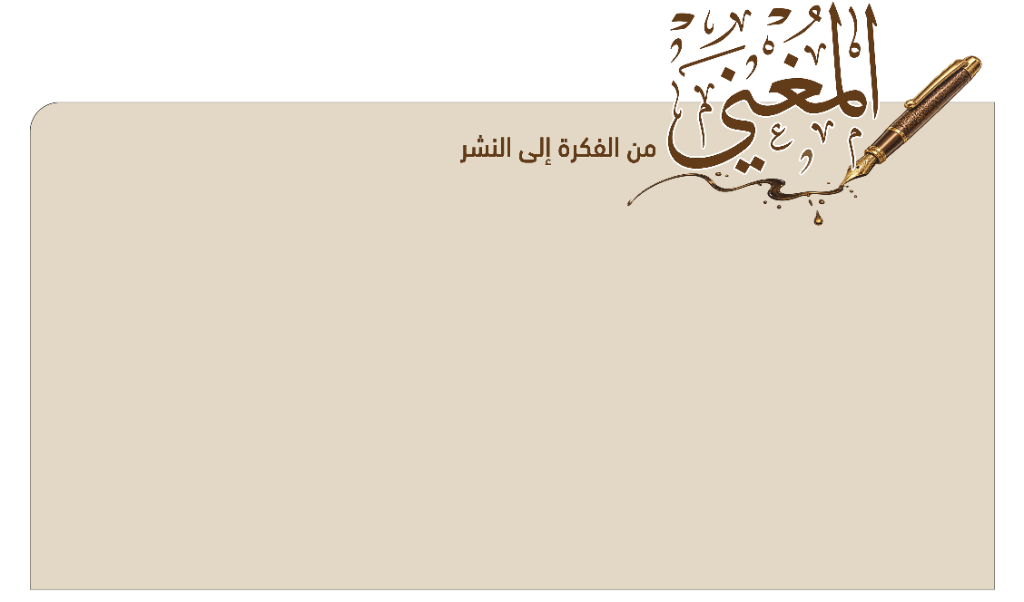
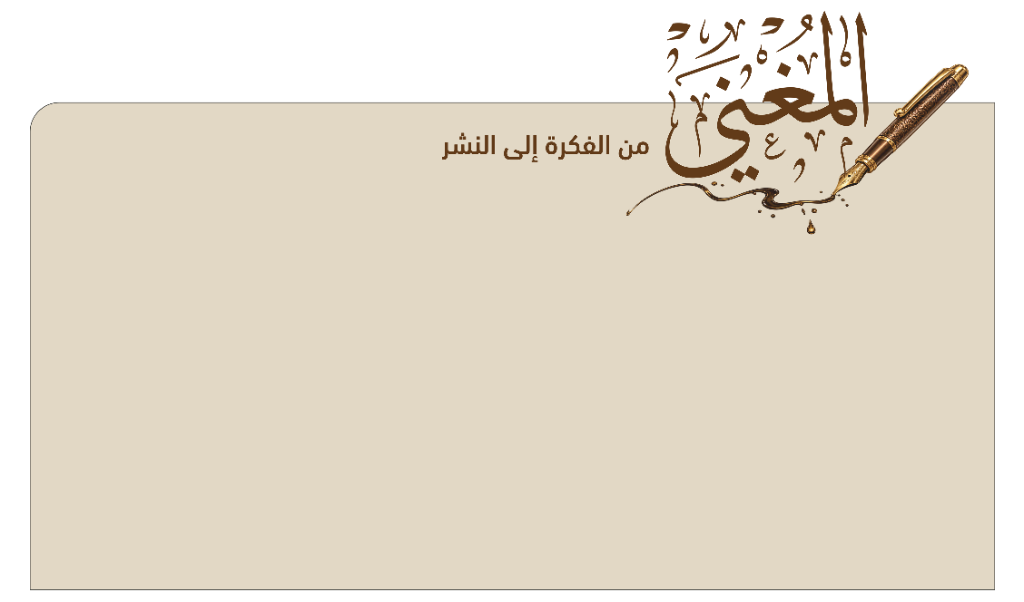
1.10.600: استبدال لوحة التنصيب باللوحة الجديدة
الخط والقلم وعبارة «من الفكرة إلى النشر» صارت لوحة الإعداد في ماك وويندوز بنفس المقاس.

Changed region(s): [[0.0625, 0.0, 0.9688, 0.3887], [0.5938, 0.3289, 0.625, 0.3588]]

diff --git a/web_ui/templates/index.html b/web_ui/templates/index.html
@@ -7,7 +7,7 @@
     <title>المغني</title>
     <meta name="description"
         content="منظومة المغني - من الفكرة إلي النشر، مع محادثة ذكية ووكلاء مساعدين">
-    <link rel="stylesheet" href="/static/css/claude_theme.css?v=1.10.599">
+    <link rel="stylesheet" href="/static/css/claude_theme.css?v=1.10.600">
     <link rel="preconnect" href="https://fonts.googleapis.com">
     <link rel="preconnect" href="https://fonts.gstatic.com" crossorigin>
     <link
@@ -25,9 +25,9 @@
         <div class="header-top">
             <div class="brand-section">
                 <div class="brand-title">
-                    <img class="brand-mark" src="/static/brand-mark.png?v=1.10.599" alt="المغني">
+                    <img class="brand-mark" src="/static/brand-mark.png?v=1.10.600" alt="المغني">
                 </div>
-                <span class="brand-subtitle-1" id="appVersionLabel">النسخة: 1.10.599</span>
+                <span class="brand-subtitle-1" id="appVersionLabel">النسخة: 1.10.600</span>
             </div>
 
             <div class="header-actions">
@@ -6044,7 +6044,7 @@
     <script src="/static/js/markmap-lib.min.js"></script>
     <script src="/static/js/g6.min.js"></script>
     <script src="/static/js/g2.min.js"></script>
-    <script src="/static/js/app.js?v=1.10.599"></script>
+    <script src="/static/js/app.js?v=1.10.600"></script>
     <script src="/static/js/search.js?v=1.10.493"></script>
     <script src="/static/js/reader.js?v=1.10.493"></script>
     <script src="/static/js/force3d.js?v=1.10.493"></script>
@@ -6052,16 +6052,16 @@
     <script src="/static/js/chat.js?v=1.10.493"></script>
     <script src="/static/js/designs.js?v=1.10.493"></script>
     <script src="/static/js/texts.js?v=1.10.493"></script>
-    <script src="/static/js/agents.js?v=1.10.599"></script>
+    <script src="/static/js/agents.js?v=1.10.600"></script>
     <script src="/static/js/providers.js?v=1.10.493"></script>
     <script src="/static/js/tools.js?v=1.10.493"></script>
     <script src="/static/js/shamela_link.js?v=1.10.493"></script>
     <script src="/static/js/projects.js?v=1.10.493"></script>
-    <script src="/static/js/manuscripts.js?v=1.10.599"></script>
+    <script src="/static/js/manuscripts.js?v=1.10.600"></script>
     <script src="/static/js/archive.js?v=1.10.493"></script>
     <script src="/static/js/compare.js?v=1.10.493"></script>
     <script src="/static/js/local_models.js?v=1.10.493"></script>
-    <script src="/static/js/changelog.js?v=1.10.599"></script>
+    <script src="/static/js/changelog.js?v=1.10.600"></script>
 
     <script>
         window.refreshLucideIcons = function () {

diff --git a/macos/AlmoghniLauncher.swift b/macos/AlmoghniLauncher.swift
@@ -556,7 +556,7 @@ final class Launcher: NSObject, NSApplicationDelegate, NSWindowDelegate {
     private let support = FileManager.default.homeDirectoryForCurrentUser
         .appendingPathComponent("Library/Application Support/Almoghni", isDirectory: true)
     private var statusURL: URL { support.appendingPathComponent("status.txt") }
-    private let interfaceURL = URL(string: "http://127.0.0.1:8085/?v=1.10.599")!
+    private let interfaceURL = URL(string: "http://127.0.0.1:8085/?v=1.10.600")!
     private let ink = NSColor(srgbRed: 0.165, green: 0.133, blue: 0.102, alpha: 1)
     private let clay = NSColor(srgbRed: 0.710, green: 0.416, blue: 0.298, alpha: 1)
     private let emerald = NSColor(srgbRed: 0.184, green: 0.435, blue: 0.369, alpha: 1)
@@ -710,7 +710,7 @@ final class Launcher: NSObject, NSApplicationDelegate, NSWindowDelegate {
     }
 
     private var appVersion: String {
-        Bundle.main.object(forInfoDictionaryKey: "CFBundleShortVersionString") as? String ?? "1.10.599"
+        Bundle.main.object(forInfoDictionaryKey: "CFBundleShortVersionString") as? String ?? "1.10.600"
     }
 
     private func buildWindow() {

diff --git a/web_ui/templates/auth.html b/web_ui/templates/auth.html
@@ -260,7 +260,7 @@
                 <div class="auth-title-row">
                     <h1 class="auth-title" id="authTitle">منظومة المغني</h1>
                 </div>
-                <p class="auth-subtitle" id="appVersionLabel">النسخة: 1.10.599</p>
+                <p class="auth-subtitle" id="appVersionLabel">النسخة: 1.10.600</p>
             </div>
 
             <div id="authAlert" class="auth-alert"></div>

diff --git a/windows/AlmoghniApp.cs b/windows/AlmoghniApp.cs
@@ -761,7 +761,7 @@ sealed class InstallerForm : Form
             appWindow = new AppForm();
             appWindow.VisibleChanged += (_, _) => tray.Visible = ready && !Visible && appWindow is { Visible: false };
         }
-        _ = appWindow.Open("http://127.0.0.1:8085/?v=1.10.599");
+        _ = appWindow.Open("http://127.0.0.1:8085/?v=1.10.600");
         tray.Visible = false;
         ShowInTaskbar = false;
         Hide();

diff --git a/web_ui/server.py b/web_ui/server.py
@@ -7645,7 +7645,7 @@ def mcp_open_session(url: str) -> Tuple[str, Optional[str], List[dict]]:
         "params": {
             "protocolVersion": "2024-11-05",
             "capabilities": {},
-            "clientInfo": {"name": "almoghni", "version": "1.10.599"},
+            "clientInfo": {"name": "almoghni", "version": "1.10.600"},
         },
     })
     if opened.get("error"):

diff --git a/changes.md b/changes.md
@@ -1,5 +1,9 @@
 # سجل الإصدارات
 
+## 1.10.600 (نسخة تجريبية)
+
+- استُبدلت لوحة التنصيب في ماك وويندوز باللوحة الجديدة: الخط والقلم وعبارة «من الفكرة إلى النشر».
+
 ## 1.10.599 (نسخة تجريبية)
 
 - إصلاح بقاء مجلد التطبيق بعد إلغاء تثبيت ويندوز فعلياً: سكربت الحذف المولّد كانت فيه فاصلة زائدة بعد آخر مجلد فيرفضه ويندوز من أول سطر ولا يعمل أبداً، فيبقى المجلد كاملاً رغم حذف التسجيل والاختصارات. صُحح توليد السكربت وتم التحقق من إلغاء كامل على الجهاز.
